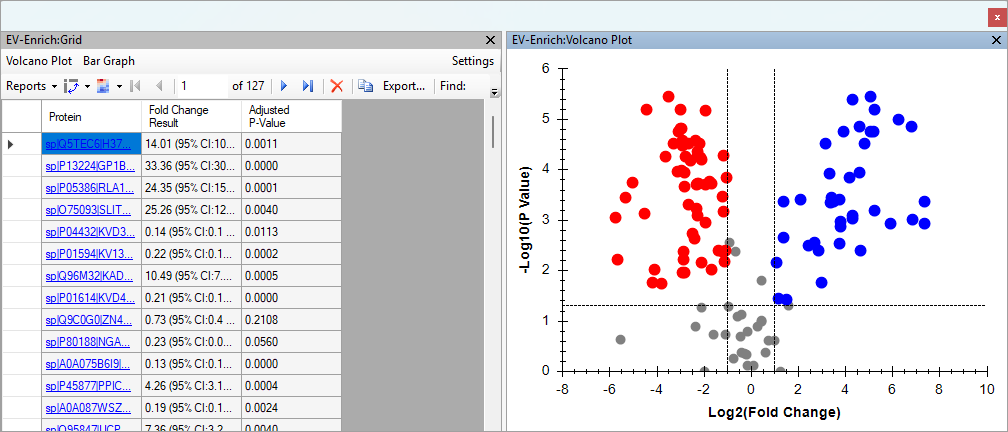
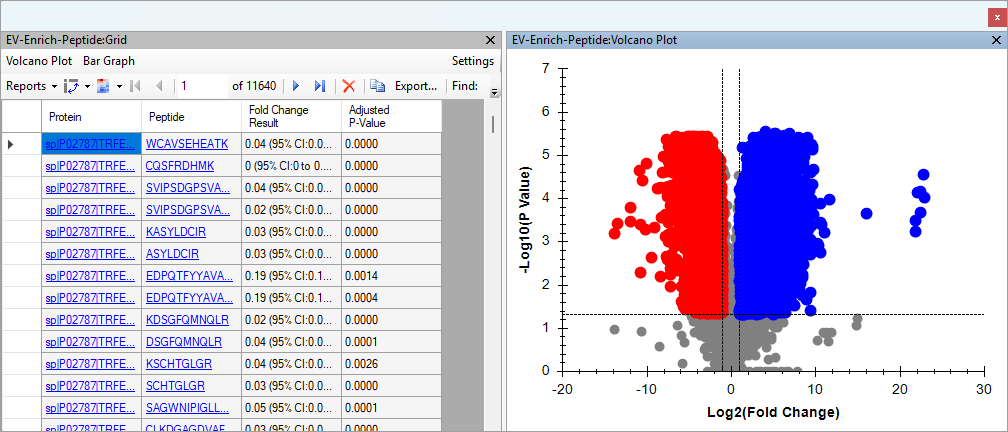
Do group comparison on peptide level instead of protein level. Show "Exemplary Peak" and retention time alignment.

diff --git a/pwiz_tools/Skyline/Documentation/Tutorials/PeakImputationDia/en/index.html b/pwiz_tools/Skyline/Documentation/Tutorials/PeakImputationDia/en/index.html
@@ -30,28 +30,29 @@
     <ul>
         <li>Open the file "2025-DIA-Webinar-MagNet.sky" in the "PeakImptutationDia" folder.</li>
         <li>On the <b>View</b> menu, click <b>Live Reports</b> and then click <b>Document Grid</b></li>
-        <li>On the <b>Reports</b> menu int the upper-left corner of the Document Grid, click <b>Protein Areas</b></li>
+        <li>On the <b>Reports</b> menu int the upper-left corner of the Document Grid, click <b>Peptide Areas</b></li>
     </ul>
     <p>
-        The "Protein Areas" is a report definition which is included in the 2025-DIA-Webinar-MagNet document.
-        The report has one row per Protein in the document, and the Protein Abundance values for each replicate are displayed in different columns.
-        Many of the Protein Abundance cells in the grid have a red exclamation mark which indicates that the abundance value for that replicate cannot
-        be reliably compared between replicates because the peaks for some of the peptides have not been chosen.
+        The "Peptide Areas" is a report definition which is included in the 2025-DIA-Webinar-MagNet document.
+        The report has one row per Peptide in the document, and the Normalized Area values for each replicate are displayed in different columns.
+        The Normalized Area column shows the peak areas for the peptide normalized according to the "Normalization Method" setting on the Quantification tab in the Peptide Settings dialog.
+        In this document, the Normalization Method is set to "Total Ion Current".
+        Many of the Normalized Area values are "#N/A" in this grid because a chromatogram peak has not been chosen.
     </p>
     <p>
         <img src="s-01.png" />
     </p>
     <ul>
-        <li>On the <b>View</b> menu, choose <b>Live Reports</b>, then <b>Group Comparisons</b>, and click <b>EV-Enrich</b></li>
+        <li>On the <b>View</b> menu, choose <b>Live Reports</b>, then <b>Group Comparisons</b>, and click <b>EV-Enrich-Peptide</b></li>
     </ul>
     <p><img src="s-02.png" /></p>
-    <p>This displays the results of the "EV-Enrich" group comparison. The number of rows in the grid is much less than the
-        total number of proteins in the document because the replicates where a protein had peptides with missing peaks are
-        excluded from that protein's group comparison. To display the volcano plot, do the following:
+    <p>This displays the results of the "EV-Enrich-Peptide" group comparison. The number of rows in the grid is much less than the
+        total number of peptides in the document because the replicates where no peak was chosen for a peptide are excluded from that peptide's group comparison.
+        To display the volcano plot, do the following:
     </p>
     <ul>
-        <li>Click the <b>Volcano Plot</b> button at the top left of the <b>EV-Enrich:Grid</b> window</li>
-        <li>The volcano plot appears in the right half of the space where the EV-Enruch grid was. You can make the window wider so that you can see all of the columns of the group comparison grid as well as the volcano plot</li>
+        <li>Click the <b>Volcano Plot</b> button at the top left of the <b>EV-Enrich-Peptide:Grid</b> window</li>
+        <li>The volcano plot appears in the right half of the space where the EV-Enrich-Peptide grid was. You can make the window wider so that you can see all of the columns of the group comparison grid as well as the volcano plot</li>
     </ul>
     <p><img src="s-03.png"/></p>
     <p>
@@ -65,22 +66,41 @@
         <li>Check the <b>Use zero for missing peaks</b> checkbox</li>
     </ul>
     <p><img src="s-04.png"/></p>
-    <p>After you make that change to the group comparison definition, the grid will have one row for each protein in the document and the volcano plot will have more points.</p>
+    <p>After you make that change to the group comparison definition, the grid will have one row for each peptide in the document and the volcano plot will have more points.</p>
     <p><img src="S-05.png"/></p>
     <p>The volcano plot remains zoomed in on the subset of data that existed before the change to the group comparison settings. Closing and reopening the volcano plot will reset its display to the default amount of zoom for the data that is displaying.</p>
     <ul><li>Click the <b>X</b> button in the top right corner of the volcano plot</li>
     <li>Click the <b>Volcano Plot</b> button at the top of the <b>EV-Enrich:Grid</b> window</li></ul>
     <p><img src="s-06.png"/></p>
-    <p>The distinct sections in the volcano plot come from the unnaturalness of treating missing valuse as zero.</p>
-    <p>It would be better to tell Skyline to integrate whatever signal is in the expected location on the chromatogram instead of always using the value zero.</p>
-    <ul>
-        <li>On the <b>Settings</b> menu click <p>Peptide Settings</p></li>
-        <li>Click the <p>Prediction</p> tab.</li>
-        <li>Check the <b>Missing peaks</b> checkbox inside of the</li>
-    </ul>
-    <p><img src="S-07.png"/></p>
-    <ul><li>Click the <b>OK</b> button.</li></ul>
+    <p>In the volcano plot, Skyline displays the peptides which are currently selected in the Targets tree.</p>
+    <ul><li>Click on the point in the volcano plot which has the highest X-coordinate.</li></ul>
+    <p><img src="s-07.png"/></p>
+    <p>Skyline selects the peptide associated with that point.</p>
+    <ul><li>On the <b>View</b> menu, choose <b>Retention Times</b> and click <b>Replicate Comparison</b> (F8).</li></ul>
     <p><img src="s-08.png"/></p>
+    <ul>
+        <li>Click on the fourth label below the X-axis of the retention times graph where it says "Total04_HydN...42"</li>
+        <li>Move the floating windows out of the way so that you can see the main Skyline window</li>
+    </ul>
+    <p><img src="s-09.png"/></p>
+    <p>No peak has been chosen for this peptide in this replicate. Skyline has the ability to tell you where on this chromatogram the peak from the best-scoring replicate could be found.</p>
+    <ul><li>Right-click on the chromatogram graph and choose the menu item <b>Exemplary Peak</b></li></ul>
+    <p><img src="s-10.png"/></p>
+    <p>Now we are going to tell Skyline to set the peak boundaries for all missing peaks based on the peak boundaries of the best-scoring replicate.</p>
+    <ul>
+        <li>On the <b>Settings</b> menu click <b>Peptide Settings</b></li>
+        <li>Click the <b>Prediction</b> tab.</li>
+        <li>Check the <b>Missing peaks</b> checkbox inside of the "Impute boundaries for" box.</li>
+    </ul>
+    <p><img src="S-11.png"/></p>
+    <ul><li>Click the <b>OK</b> button.</li></ul>
+    <p>Skyline has now set the integration boundaries to coincide with the green rectangle.</p>
+    <p><img src="s-12.png"/></p>
+    <p>The Retention Times graph shows peak boundaries all replicates.</p>
+    <p><img src="s-13.png"/></p>
+    <p>Right-click on the chromatogram graph and choose <b>Align to Library 'PeakImputationDemo'</b></p>
+    <p><img src="s-14.png"/></p>
+    <p><img src="s-15.png"/></p>
 </body>
 
 </html>

diff --git a/pwiz_tools/Skyline/TestTutorial/PeakImputationDiaTutorial.cs b/pwiz_tools/Skyline/TestTutorial/PeakImputationDiaTutorial.cs
@@ -1,7 +1,11 @@
+using System;
+using System.Linq;
 using DigitalRune.Windows.Docking;
 using Microsoft.VisualStudio.TestTools.UnitTesting;
 using pwiz.Skyline.Controls.Databinding;
+using pwiz.Skyline.Controls.Graphs;
 using pwiz.Skyline.Controls.GroupComparison;
+using pwiz.Skyline.Model.GroupComparison;
 using pwiz.Skyline.SettingsUI;
 using pwiz.SkylineTestUtil;
 
@@ -26,15 +30,15 @@ namespace pwiz.SkylineTestTutorial
         {
             RunUI(() =>
             {
-                SkylineWindow.OpenFile(TestFilesDirs[0].GetTestPath("2025-DIA-Webinar-MagNet.sky"));
+                SkylineWindow.OpenFile(TestFilesDirs[0].GetTestPath("PeakImputationDemo.sky"));
                 SkylineWindow.ShowDocumentGrid(true);
             });
             var documentGrid = FindOpenForm<DocumentGridForm>();
-            RunUI(()=>documentGrid.ChooseView("Protein Areas"));
+            RunUI(()=>documentGrid.ChooseView("Peptide Areas"));
             WaitForDocumentLoaded();
             WaitForConditionUI(() => documentGrid.IsComplete);
             PauseForScreenShot(documentGrid);
-            RunUI(()=>SkylineWindow.ShowGroupComparisonWindow("EV-Enrich"));
+            RunUI(()=>SkylineWindow.ShowGroupComparisonWindow("EV-Enrich-Peptide"));
             var foldChangeGrid = FindOpenForm<FoldChangeGrid>();
             WaitForConditionUI(() => foldChangeGrid.IsComplete);
             PauseForScreenShot(foldChangeGrid);
@@ -68,6 +72,26 @@ namespace pwiz.SkylineTestTutorial
             foldChangeVolcanoPlot = FindOpenForm<FoldChangeVolcanoPlot>();
             WaitForConditionUI(() => foldChangeVolcanoPlot.IsComplete);
             PauseForScreenShot(floatingWindow);
+            RunUI(() =>
+            {
+                var biggestFoldChange = foldChangeVolcanoPlot.CurveList
+                    .SelectMany(curve => Enumerable.Range(0, curve.NPts).Select(i => curve.Points[i]))
+                    .Where(pointPair => pointPair.Tag is FoldChangeRow).OrderByDescending(pointPair => pointPair.X)
+                    .First();
+                var foldChangeRow = (FoldChangeRow)biggestFoldChange.Tag;
+                foldChangeRow.Peptide.LinkValueOnClick(null, EventArgs.Empty);
+            });
+            PauseForScreenShot(foldChangeVolcanoPlot, processShot:ClipControl(foldChangeVolcanoPlot));
+            var rtReplicateGraphSummary = ShowDialog<GraphSummary>(SkylineWindow.ShowRTReplicateGraph);
+            PauseForScreenShot(rtReplicateGraphSummary);
+            RunUI(()=>SkylineWindow.SelectedResultsIndex = 3);
+            var windowPositions = HideFloatingWindows();
+            PauseForScreenShot(SkylineWindow);
+            RunUI(()=>SkylineWindow.ShowExemplaryPeak(true));
+            var graphChromatogram = SkylineWindow.GetGraphChrom("Total04_HydN_12mz_42");
+            WaitForConditionUI(() => graphChromatogram.ExemplaryPeak != null);
+            PauseForScreenShot(graphChromatogram);
+
             RunLongDlg<PeptideSettingsUI>(SkylineWindow.ShowPeptideSettingsUI, peptideSettingsUi =>
             {
                 RunUI(()=>
@@ -77,8 +101,17 @@ namespace pwiz.SkylineTestTutorial
                 });
                 PauseForScreenShot(peptideSettingsUi);
             }, peptideSettingsUi=>peptideSettingsUi.OkDialog());
-            WaitForConditionUI(() => foldChangeVolcanoPlot.IsComplete);
-            PauseForScreenShot(floatingWindow);
+            WaitForGraphs();
+            WaitForConditionUI(() => graphChromatogram.ExemplaryPeak != null);
+            PauseForScreenShot(graphChromatogram);
+            RestoreFloatingWindows(windowPositions);
+            PauseForScreenShot(rtReplicateGraphSummary);
+            RunUI(()=>SkylineWindow.AlignToRtPrediction = true);
+            WaitForGraphs();
+            windowPositions = HideFloatingWindows();
+            PauseForScreenShot(graphChromatogram);
+            RestoreFloatingWindows(windowPositions);
+            PauseForScreenShot(rtReplicateGraphSummary);
         }
     }
 }

diff --git a/pwiz_tools/Skyline/TestTutorial/LiveReportsTutorialTest.cs b/pwiz_tools/Skyline/TestTutorial/LiveReportsTutorialTest.cs
@@ -783,38 +783,5 @@ namespace pwiz.SkylineTestTutorial
             var peptide = (pwiz.Skyline.Model.Peptide)selectedPath.Child;
             Assert.AreEqual(expectedSequence, peptide.Sequence);
         }
-
-        /// <summary>
-        /// Moves all the FloatingWindow's off the screen so they are not in the way of the
-        /// main Skyline window's screenshots.
-        /// </summary>
-        /// <returns>A list of the original locations of the windows that were moved</returns>
-        private List<Tuple<FloatingWindow, Rectangle>> HideFloatingWindows()
-        {
-            var list = new List<Tuple<FloatingWindow, Rectangle>>();
-            RunUI(() =>
-            {
-                foreach (var floatingWindow in FormUtil.OpenForms.OfType<FloatingWindow>())
-                {
-                    list.Add(Tuple.Create(floatingWindow, floatingWindow.Bounds));
-                    floatingWindow.Location = FormEx.GetOffscreenPoint();
-                }
-            });
-            return list;
-        }
-
-        /// <summary>
-        /// Move the windows back to their original locations
-        /// </summary>
-        private void RestoreFloatingWindows(List<Tuple<FloatingWindow, Rectangle>> list)
-        {
-            RunUI(() =>
-            {
-                foreach (var tuple in list)
-                {
-                    tuple.Item1.Bounds = tuple.Item2;
-                }
-            });
-        }
     }
 }

diff --git a/pwiz_tools/Skyline/TestUtil/TestFunctional.cs b/pwiz_tools/Skyline/TestUtil/TestFunctional.cs
@@ -3018,6 +3018,40 @@ namespace pwiz.SkylineTestUtil
             }
         }
 
+        /// <summary>
+        /// Moves all the FloatingWindow's off the screen so they are not in the way of the
+        /// main Skyline window's screenshots.
+        /// </summary>
+        /// <returns>A list of the original locations of the windows that were moved</returns>
+        public static List<(FloatingWindow Window, Rectangle Bounds)> HideFloatingWindows()
+        {
+            var list = new List<(FloatingWindow Window, Rectangle Bounds)>();
+            RunUI(() =>
+            {
+                foreach (var floatingWindow in FormUtil.OpenForms.OfType<FloatingWindow>())
+                {
+                    list.Add((floatingWindow, floatingWindow.Bounds));
+                    floatingWindow.Location = FormEx.GetOffscreenPoint();
+                }
+            });
+            return list;
+        }
+        /// <summary>
+        /// Move the windows back to their original locations
+        /// </summary>
+        public static void RestoreFloatingWindows(List<(FloatingWindow Window, Rectangle Bounds)> list)
+        {
+            RunUI(() =>
+            {
+                foreach (var tuple in list)
+                {
+                    tuple.Window.Bounds = tuple.Bounds;
+                }
+            });
+        }
+
+
+
         #region Modification helpers
 
         public static PeptideSettingsUI ShowPeptideSettings()

diff --git a/pwiz_tools/Skyline/Controls/Graphs/GraphChromatogram.cs b/pwiz_tools/Skyline/Controls/Graphs/GraphChromatogram.cs
@@ -242,6 +242,11 @@ namespace pwiz.Skyline.Controls.Graphs
             }
         }
 
+        public ImputedPeak ExemplaryPeak
+        {
+            get { return _imputedPeak; }
+        }
+
 
         public string NameSet
         {
